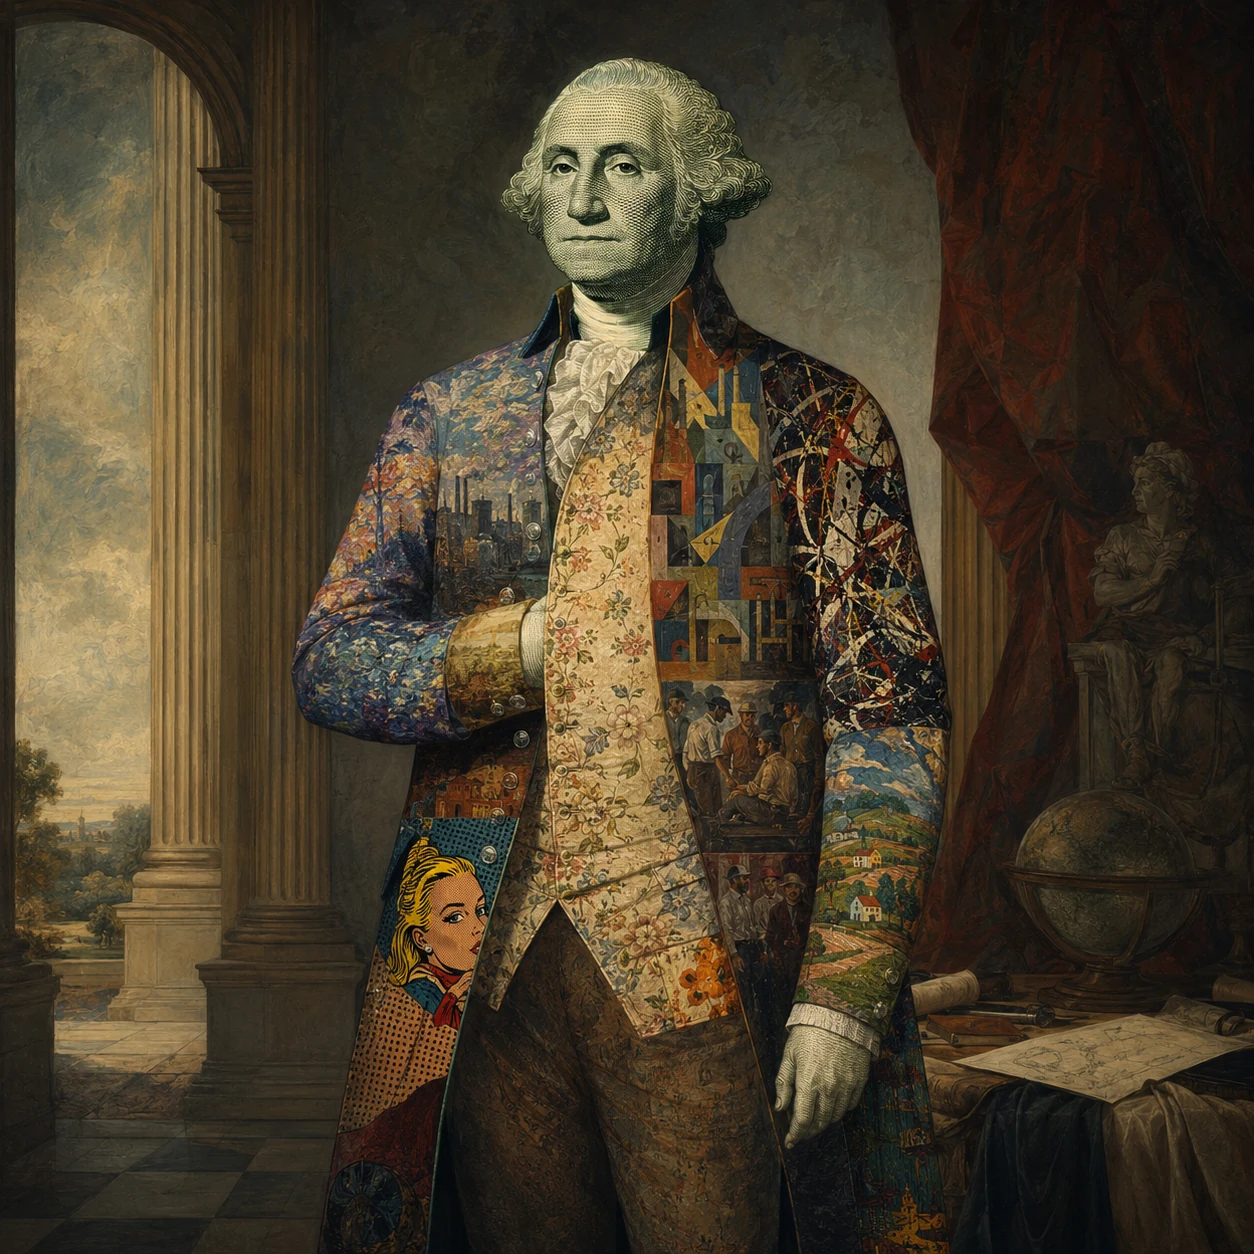
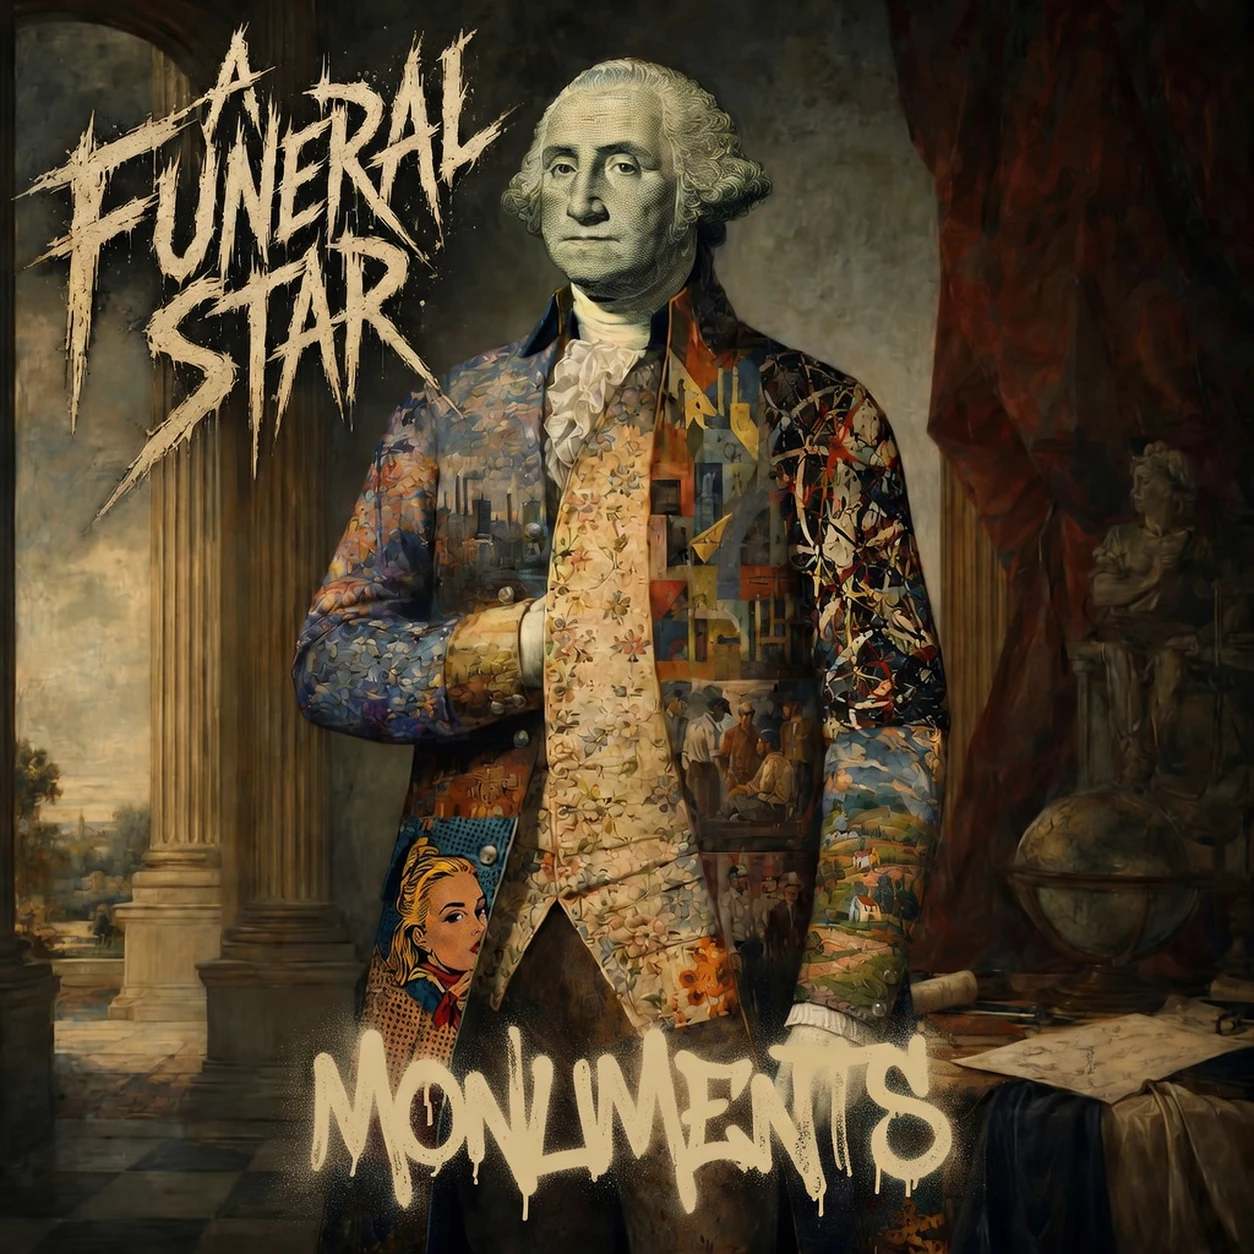
Spotlight Monuments: countdown hero, HyperFollow pre-save, Cinzel display face
- Home hero now features Monuments (final art) with the cover art
  click-through to the DistroKid HyperFollow pre-save page
- Ticking CLOCK DON'T STOP countdown to midnight June 19 2026 EDT,
  flips to OUT NOW after release
- Quasar blurb, rings/jets, and Spotify splash removed with the
  Now We Ignite spotlight; discography badge now carries the date
- Cinzel (carved-inscription face) for the hero title and countdown tag

diff --git a/index.html b/index.html
@@ -4,18 +4,18 @@
     <meta charset="utf-8">
     <meta name="viewport" content="width=device-width, initial-scale=1">
     <title>A Funeral Star | Death · Black · Folk Metal</title>
-    <meta name="description" content="A Funeral Star — experimental death, black, and folk metal from Washington, D.C. New album Now We Ignite, part of the Ignition Trilogy. Songs about people trapped by the gravity of their situations.">
+    <meta name="description" content="A Funeral Star — experimental death, black, and folk metal from Washington, D.C. New album Monuments drops June 19, 2026 — pre-save it now. Songs about people trapped by the gravity of their situations.">
     <link rel="canonical" href="https://afuneralstar.com/">
     <meta property="og:title" content="A Funeral Star | Death · Black · Folk Metal">
-    <meta property="og:description" content="A Funeral Star — experimental death, black, and folk metal from Washington, D.C. New album Now We Ignite, part of the Ignition Trilogy. Songs about people trapped by the gravity of their situations.">
-    <meta property="og:image" content="https://afuneralstar.com/assets/img/now-we-ignite-cover.webp">
+    <meta property="og:description" content="A Funeral Star — experimental death, black, and folk metal from Washington, D.C. New album Monuments drops June 19, 2026 — pre-save it now. Songs about people trapped by the gravity of their situations.">
+    <meta property="og:image" content="https://afuneralstar.com/assets/img/monuments-cover.webp">
     <meta property="og:type" content="website">
     <meta property="og:url" content="https://afuneralstar.com/">
     <meta name="twitter:card" content="summary_large_image">
     <meta name="twitter:site" content="@afuneralstar">
     <meta name="twitter:title" content="A Funeral Star | Death · Black · Folk Metal">
-    <meta name="twitter:description" content="A Funeral Star — experimental death, black, and folk metal from Washington, D.C. New album Now We Ignite, part of the Ignition Trilogy. Songs about people trapped by the gravity of their situations.">
-    <meta name="twitter:image" content="https://afuneralstar.com/assets/img/now-we-ignite-cover.webp">
+    <meta name="twitter:description" content="A Funeral Star — experimental death, black, and folk metal from Washington, D.C. New album Monuments drops June 19, 2026 — pre-save it now. Songs about people trapped by the gravity of their situations.">
+    <meta name="twitter:image" content="https://afuneralstar.com/assets/img/monuments-cover.webp">
     <meta name="theme-color" content="#07070a">
     <script type="application/ld+json">
 {
@@ -126,6 +126,13 @@
   "album": [
     {
       "@type": "MusicAlbum",
+      "name": "Monuments",
+      "url": "https://distrokid.com/hyperfollow/afuneralstar/monuments",
+      "image": "https://afuneralstar.com/assets/img/monuments-cover.webp",
+      "datePublished": "2026-06-19"
+    },
+    {
+      "@type": "MusicAlbum",
       "name": "Now We Ignite",
       "url": "https://afuneralstar.com/releases/now-we-ignite/"
     },
@@ -164,7 +171,7 @@
     </script>
     <link rel="preconnect" href="https://fonts.googleapis.com">
     <link rel="preconnect" href="https://fonts.gstatic.com" crossorigin>
-    <link rel="stylesheet" href="https://fonts.googleapis.com/css2?family=Cormorant+Garamond:ital,wght@0,500;0,600;0,700;1,500;1,600&family=Spectral:ital,wght@0,400;0,500;1,400;1,500&family=IBM+Plex+Mono:wght@400;500&display=swap">
+    <link rel="stylesheet" href="https://fonts.googleapis.com/css2?family=Cinzel:wght@500;600;700&family=Cormorant+Garamond:ital,wght@0,500;0,600;0,700;1,500;1,600&family=Spectral:ital,wght@0,400;0,500;1,400;1,500&family=IBM+Plex+Mono:wght@400;500&display=swap">
     <link rel="stylesheet" href="/assets/css/redesign.css">
     <script src="/assets/js/redesign.js" defer></script>
     <script async src="https://www.googletagmanager.com/gtag/js?id=G-888BCT159V"></script>
@@ -268,33 +275,33 @@
         <div class="hero">
           <div class="hero-inner">
             <p class="eyebrow">A Funeral Star · The Ignition Trilogy</p>
-            <h1 class="hero-title">Now We <em>Ignite</em></h1>
-            <p class="collapse-tag">Cosmic Ignition</p>
+            <h1 class="hero-title hero-title-stone">Monuments</h1>
+            <p class="collapse-tag">Societal Ignition</p>
 
-            <a class="splash" href="https://open.spotify.com/album/3a5JAyUN6Wd45aTpIoqvIH" target="_blank" rel="noopener" data-spotify-embed="album/3a5JAyUN6Wd45aTpIoqvIH" data-album="Now We Ignite" data-platform="Spotify" aria-label="Play Now We Ignite on Spotify">
+            <div class="countdown" data-countdown="2026-06-19T04:00:00Z" role="timer" aria-label="Countdown to the release of Monuments">
+              <p class="countdown-tag">Clock Don&#039;t Stop</p>
+              <div class="countdown-grid" data-countdown-grid>
+                <span class="cd-unit"><span class="cd-num" data-cd-days>--</span><span class="cd-label">Days</span></span>
+                <span class="cd-sep" aria-hidden="true">:</span>
+                <span class="cd-unit"><span class="cd-num" data-cd-hours>--</span><span class="cd-label">Hours</span></span>
+                <span class="cd-sep" aria-hidden="true">:</span>
+                <span class="cd-unit"><span class="cd-num" data-cd-mins>--</span><span class="cd-label">Min</span></span>
+                <span class="cd-sep" aria-hidden="true">:</span>
+                <span class="cd-unit"><span class="cd-num" data-cd-secs>--</span><span class="cd-label">Sec</span></span>
+              </div>
+              <p class="countdown-date">Midnight · June 19 2026 · Washington D.C.</p>
+            </div>
+
+            <a class="splash is-stone" href="https://distrokid.com/hyperfollow/afuneralstar/monuments" target="_blank" rel="noopener" data-album="Monuments" data-platform="HyperFollow" aria-label="Pre-save Monuments on DistroKid HyperFollow">
               <span class="cosmos" aria-hidden="true">
                 <span class="glow"></span>
-                <span class="rings"><svg viewBox="0 0 400 400" preserveAspectRatio="xMidYMid meet">
-                  <ellipse cx="200" cy="200" rx="196" ry="116" transform="rotate(-48 200 200)"/>
-                  <ellipse cx="200" cy="200" rx="150" ry="80" transform="rotate(-48 200 200)"/>
-                  <ellipse cx="200" cy="200" rx="120" ry="160" transform="rotate(14 200 200)"/>
-                </svg></span>
-                <span class="jet"></span>
-                <span class="jet core"></span>
-                <span class="ice-star"></span>
               </span>
-              <img src="/assets/img/now-we-ignite-cover.webp" alt="Now We Ignite album art — a quasar igniting from a black hole" width="1254" height="1254" fetchpriority="high">
-              <span class="splash-cue"><svg aria-hidden="true"><use href="#i-play"/></svg> Play on Spotify</span>
+              <img src="/assets/img/monuments-cover.webp" alt="Monuments album art — a statue in an ornate embroidered coat" width="1254" height="1254" fetchpriority="high">
+              <span class="splash-cue">Pre-Save the Album</span>
             </a>
 
-            <p class="blurb">A quasar fires from the black hole that <em>consumed the funeral star</em>. The collapse reverses — light, outward, at the speed of birth.</p>
-
             <div class="listen">
-              <span class="listen-label">Listen</span>
-              <a class="plink is-primary" href="https://open.spotify.com/album/3a5JAyUN6Wd45aTpIoqvIH" target="_blank" rel="noopener" data-platform="Spotify" data-album="Now We Ignite" aria-label="Spotify"><svg><use href="#logo-spotify"/></svg></a>
-              <a class="plink" href="https://music.apple.com/us/artist/a-funeral-star" target="_blank" rel="noopener" data-platform="Apple Music" data-album="Now We Ignite" aria-label="Apple Music"><svg><use href="#logo-apple"/></svg></a>
-              <a class="plink" href="https://www.youtube.com/@AFuneralStar" target="_blank" rel="noopener" data-platform="YouTube" data-album="Now We Ignite" aria-label="YouTube"><svg><use href="#logo-youtube"/></svg></a>
-              <a class="plink" href="https://afuneralstar.bandcamp.com" target="_blank" rel="noopener" data-platform="Bandcamp" data-album="Now We Ignite" aria-label="Bandcamp"><svg><use href="#logo-bandcamp"/></svg></a>
+              <a class="presave-button" href="https://distrokid.com/hyperfollow/afuneralstar/monuments" target="_blank" rel="noopener" data-album="Monuments" data-platform="HyperFollow">Pre-Save / Follow</a>
             </div>
           </div>
           <p class="scrollcue">The Discography ↓</p>
@@ -314,7 +321,7 @@
               <span class="icon-sub">Cosmic Ignition</span>
             </a>
             <div class="icon is-upcoming">
-              <span class="icon-art"><img loading="lazy" width="600" height="600" src="/assets/img/monuments-cover.webp" alt="Monuments — Coming 2026"><span class="icon-badge">Coming 2026</span></span>
+              <span class="icon-art"><img loading="lazy" width="600" height="600" src="/assets/img/monuments-cover.webp" alt="Monuments — June 19 · 2026"><span class="icon-badge">June 19 · 2026</span></span>
               <span class="icon-name">Monuments</span>
               <span class="icon-sub">Societal Ignition</span>
             </div>

diff --git a/assets/css/redesign.css b/assets/css/redesign.css
@@ -35,6 +35,7 @@
   --line-strong: rgba(236, 232, 225, 0.17);
 
   --display: "Cormorant Garamond", "EB Garamond", Georgia, "Times New Roman", serif;
+  --stone: "Cinzel", "Trajan Pro", "Cormorant Garamond", Georgia, serif;
   --body: "Spectral", "Source Serif Pro", Georgia, serif;
   --mono: "IBM Plex Mono", ui-monospace, "SFMono-Regular", Menlo, monospace;
 
@@ -214,6 +215,12 @@ button { font: inherit; color: inherit; background: none; border: 0; cursor: poi
   color: var(--star); text-shadow: 0 0 70px rgba(255, 140, 69, 0.2);
 }
 .hero-title em { font-style: italic; font-weight: 300; }
+/* Monuments: carved-inscription face — harder edge than the Garamond */
+.hero-title-stone {
+  font-family: var(--stone); font-weight: 700; text-transform: uppercase;
+  font-size: clamp(2rem, 8.4vw, 5.6rem); line-height: 1; letter-spacing: 0.085em;
+  text-shadow: 0 0 70px rgba(255, 140, 69, 0.16);
+}
 .collapse-tag {
   margin: 0; display: inline-flex; align-items: center; gap: 0.7rem;
   font-family: var(--mono); font-size: 0.66rem; letter-spacing: 0.32em;
@@ -221,12 +228,39 @@ button { font: inherit; color: inherit; background: none; border: 0; cursor: poi
 }
 .collapse-tag::before, .collapse-tag::after { content: ""; width: 1.7rem; height: 1px; background: var(--line-strong); }
 
+/* release countdown (CLOCK DON'T STOP) */
+.countdown { display: grid; justify-items: center; gap: 0.65rem; margin-top: 0.7rem; }
+.countdown-tag {
+  margin: 0; font-family: var(--stone); font-weight: 600; font-size: 0.92rem;
+  letter-spacing: 0.4em; text-transform: uppercase; color: var(--ignite-bright);
+  padding-left: 0.4em; /* optically recenter the tracked-out caps */
+}
+.countdown-grid {
+  display: flex; align-items: flex-start; gap: clamp(0.5rem, 1.6vw, 1rem);
+  font-variant-numeric: tabular-nums;
+}
+.cd-unit { display: grid; justify-items: center; gap: 0.35rem; min-width: 3ch; }
+.cd-num {
+  font-family: var(--mono); font-weight: 500;
+  font-size: clamp(1.65rem, 4.4vw, 2.5rem); line-height: 1; color: var(--star);
+  text-shadow: 0 0 26px rgba(238, 106, 30, 0.3);
+}
+.cd-label { font-family: var(--mono); font-size: 0.52rem; letter-spacing: 0.3em; text-transform: uppercase; color: var(--dim); }
+.cd-sep { font-family: var(--mono); font-size: clamp(1.3rem, 3.4vw, 2rem); line-height: 1.2; color: var(--ignite-burnt); }
+.cd-live {
+  font-family: var(--stone); font-weight: 700; text-transform: uppercase;
+  font-size: clamp(1.5rem, 3.6vw, 2.2rem); letter-spacing: 0.2em; color: var(--ignite-bright);
+}
+.countdown-date { margin: 0; font-family: var(--mono); font-size: 0.56rem; letter-spacing: 0.3em; text-transform: uppercase; color: var(--muted); }
+
 /* splash (clickable album art) + cosmos */
 .splash {
   position: relative; display: block; margin: 1.8rem 0 0.7rem;
   width: clamp(260px, 34vw, 460px); aspect-ratio: 1;
   animation: float 9s ease-in-out infinite;
 }
+/* monuments don't float — the stone hangs heavy and still */
+.splash.is-stone { animation: none; }
 .cosmos { position: absolute; left: 50%; top: 50%; transform: translate(-50%, -50%); width: 100%; height: 100%; z-index: 0; pointer-events: none; }
 .glow {
   position: absolute; left: 50%; top: 50%; transform: translate(-50%, -50%);
@@ -277,6 +311,13 @@ button { font: inherit; color: inherit; background: none; border: 0; cursor: poi
   font-size: clamp(1.08rem, 1.8vw, 1.32rem); line-height: 1.62; color: var(--paper-soft);
 }
 .blurb em { color: var(--paper); font-style: italic; }
+
+.presave-button {
+  padding: 0.95rem 2.4rem; border: 1px solid var(--ignite); color: var(--star);
+  font-family: var(--mono); font-size: 0.66rem; letter-spacing: 0.3em; text-transform: uppercase;
+  transition: background 220ms var(--ease), box-shadow 260ms var(--ease);
+}
+.presave-button:hover { background: var(--ignite-ember); box-shadow: 0 0 30px var(--ignite-glow); }
 
 .listen { display: flex; align-items: center; gap: 1.1rem; flex-wrap: wrap; justify-content: center; margin-top: 1.6rem; }
 .listen-label { font-family: var(--mono); font-size: 0.6rem; letter-spacing: 0.32em; text-transform: uppercase; color: var(--dim); }
@@ -540,6 +581,11 @@ button { font: inherit; color: inherit; background: none; border: 0; cursor: poi
 @media (max-width: 540px) {
   .track { grid-template-columns: 2rem 1fr auto; gap: 0.6rem; }
   .track-title { font-size: 1.08rem; }
+  /* rein in the tracked-out caps so hero lines fit a phone */
+  .eyebrow { font-size: 0.56rem; letter-spacing: 0.26em; }
+  .hero-title-stone { letter-spacing: 0.055em; }
+  .countdown-tag { font-size: 0.8rem; letter-spacing: 0.3em; }
+  .countdown-date { font-size: 0.5rem; letter-spacing: 0.2em; }
 }
 
 @media (prefers-reduced-motion: reduce) {

diff --git a/assets/js/redesign.js b/assets/js/redesign.js
@@ -174,6 +174,34 @@
     }
   });
 
+  // ---------- release countdown ----------
+  const countdown = document.querySelector("[data-countdown]");
+  if (countdown) {
+    const target = Date.parse(countdown.dataset.countdown);
+    const grid = countdown.querySelector("[data-countdown-grid]");
+    const days = countdown.querySelector("[data-cd-days]");
+    const hours = countdown.querySelector("[data-cd-hours]");
+    const mins = countdown.querySelector("[data-cd-mins]");
+    const secs = countdown.querySelector("[data-cd-secs]");
+    const pad = (n) => String(n).padStart(2, "0");
+    let timer;
+    const tick = () => {
+      const left = target - Date.now();
+      if (left <= 0) {
+        clearInterval(timer);
+        if (grid) grid.innerHTML = '<span class="cd-live">Out Now</span>';
+        return;
+      }
+      const s = Math.floor(left / 1000);
+      days.textContent = pad(Math.floor(s / 86400));
+      hours.textContent = pad(Math.floor((s % 86400) / 3600));
+      mins.textContent = pad(Math.floor((s % 3600) / 60));
+      secs.textContent = pad(s % 60);
+    };
+    tick();
+    timer = setInterval(tick, 1000);
+  }
+
   // ---------- newsletter ----------
   document.querySelector("[data-newsletter-form]")?.addEventListener("submit", () => {
     track("newsletter_submit");

diff --git a/about/index.html b/about/index.html
@@ -19,7 +19,7 @@
     <meta name="theme-color" content="#07070a">
     <link rel="preconnect" href="https://fonts.googleapis.com">
     <link rel="preconnect" href="https://fonts.gstatic.com" crossorigin>
-    <link rel="stylesheet" href="https://fonts.googleapis.com/css2?family=Cormorant+Garamond:ital,wght@0,500;0,600;0,700;1,500;1,600&family=Spectral:ital,wght@0,400;0,500;1,400;1,500&family=IBM+Plex+Mono:wght@400;500&display=swap">
+    <link rel="stylesheet" href="https://fonts.googleapis.com/css2?family=Cinzel:wght@500;600;700&family=Cormorant+Garamond:ital,wght@0,500;0,600;0,700;1,500;1,600&family=Spectral:ital,wght@0,400;0,500;1,400;1,500&family=IBM+Plex+Mono:wght@400;500&display=swap">
     <link rel="stylesheet" href="/assets/css/redesign.css">
     <script src="/assets/js/redesign.js" defer></script>
     <script async src="https://www.googletagmanager.com/gtag/js?id=G-888BCT159V"></script>

diff --git a/mailing-list/index.html b/mailing-list/index.html
@@ -19,7 +19,7 @@
     <meta name="theme-color" content="#07070a">
     <link rel="preconnect" href="https://fonts.googleapis.com">
     <link rel="preconnect" href="https://fonts.gstatic.com" crossorigin>
-    <link rel="stylesheet" href="https://fonts.googleapis.com/css2?family=Cormorant+Garamond:ital,wght@0,500;0,600;0,700;1,500;1,600&family=Spectral:ital,wght@0,400;0,500;1,400;1,500&family=IBM+Plex+Mono:wght@400;500&display=swap">
+    <link rel="stylesheet" href="https://fonts.googleapis.com/css2?family=Cinzel:wght@500;600;700&family=Cormorant+Garamond:ital,wght@0,500;0,600;0,700;1,500;1,600&family=Spectral:ital,wght@0,400;0,500;1,400;1,500&family=IBM+Plex+Mono:wght@400;500&display=swap">
     <link rel="stylesheet" href="/assets/css/redesign.css">
     <script src="/assets/js/redesign.js" defer></script>
     <script async src="https://www.googletagmanager.com/gtag/js?id=G-888BCT159V"></script>

diff --git a/merch/index.html b/merch/index.html
@@ -19,7 +19,7 @@
     <meta name="theme-color" content="#07070a">
     <link rel="preconnect" href="https://fonts.googleapis.com">
     <link rel="preconnect" href="https://fonts.gstatic.com" crossorigin>
-    <link rel="stylesheet" href="https://fonts.googleapis.com/css2?family=Cormorant+Garamond:ital,wght@0,500;0,600;0,700;1,500;1,600&family=Spectral:ital,wght@0,400;0,500;1,400;1,500&family=IBM+Plex+Mono:wght@400;500&display=swap">
+    <link rel="stylesheet" href="https://fonts.googleapis.com/css2?family=Cinzel:wght@500;600;700&family=Cormorant+Garamond:ital,wght@0,500;0,600;0,700;1,500;1,600&family=Spectral:ital,wght@0,400;0,500;1,400;1,500&family=IBM+Plex+Mono:wght@400;500&display=swap">
     <link rel="stylesheet" href="/assets/css/redesign.css">
     <script src="/assets/js/redesign.js" defer></script>
     <script async src="https://www.googletagmanager.com/gtag/js?id=G-888BCT159V"></script>

diff --git a/releases/consumed/index.html b/releases/consumed/index.html
@@ -114,7 +114,7 @@
     </script>
     <link rel="preconnect" href="https://fonts.googleapis.com">
     <link rel="preconnect" href="https://fonts.gstatic.com" crossorigin>
-    <link rel="stylesheet" href="https://fonts.googleapis.com/css2?family=Cormorant+Garamond:ital,wght@0,500;0,600;0,700;1,500;1,600&family=Spectral:ital,wght@0,400;0,500;1,400;1,500&family=IBM+Plex+Mono:wght@400;500&display=swap">
+    <link rel="stylesheet" href="https://fonts.googleapis.com/css2?family=Cinzel:wght@500;600;700&family=Cormorant+Garamond:ital,wght@0,500;0,600;0,700;1,500;1,600&family=Spectral:ital,wght@0,400;0,500;1,400;1,500&family=IBM+Plex+Mono:wght@400;500&display=swap">
     <link rel="stylesheet" href="/assets/css/redesign.css">
     <script src="/assets/js/redesign.js" defer></script>
     <script async src="https://www.googletagmanager.com/gtag/js?id=G-888BCT159V"></script>

diff --git a/releases/entropy-cuts/index.html b/releases/entropy-cuts/index.html
@@ -102,7 +102,7 @@
     </script>
     <link rel="preconnect" href="https://fonts.googleapis.com">
     <link rel="preconnect" href="https://fonts.gstatic.com" crossorigin>
-    <link rel="stylesheet" href="https://fonts.googleapis.com/css2?family=Cormorant+Garamond:ital,wght@0,500;0,600;0,700;1,500;1,600&family=Spectral:ital,wght@0,400;0,500;1,400;1,500&family=IBM+Plex+Mono:wght@400;500&display=swap">
+    <link rel="stylesheet" href="https://fonts.googleapis.com/css2?family=Cinzel:wght@500;600;700&family=Cormorant+Garamond:ital,wght@0,500;0,600;0,700;1,500;1,600&family=Spectral:ital,wght@0,400;0,500;1,400;1,500&family=IBM+Plex+Mono:wght@400;500&display=swap">
     <link rel="stylesheet" href="/assets/css/redesign.css">
     <script src="/assets/js/redesign.js" defer></script>
     <script async src="https://www.googletagmanager.com/gtag/js?id=G-888BCT159V"></script>

diff --git a/releases/homeless/index.html b/releases/homeless/index.html
@@ -114,7 +114,7 @@
     </script>
     <link rel="preconnect" href="https://fonts.googleapis.com">
     <link rel="preconnect" href="https://fonts.gstatic.com" crossorigin>
-    <link rel="stylesheet" href="https://fonts.googleapis.com/css2?family=Cormorant+Garamond:ital,wght@0,500;0,600;0,700;1,500;1,600&family=Spectral:ital,wght@0,400;0,500;1,400;1,500&family=IBM+Plex+Mono:wght@400;500&display=swap">
+    <link rel="stylesheet" href="https://fonts.googleapis.com/css2?family=Cinzel:wght@500;600;700&family=Cormorant+Garamond:ital,wght@0,500;0,600;0,700;1,500;1,600&family=Spectral:ital,wght@0,400;0,500;1,400;1,500&family=IBM+Plex+Mono:wght@400;500&display=swap">
     <link rel="stylesheet" href="/assets/css/redesign.css">
     <script src="/assets/js/redesign.js" defer></script>
     <script async src="https://www.googletagmanager.com/gtag/js?id=G-888BCT159V"></script>

diff --git a/releases/now-we-ignite/index.html b/releases/now-we-ignite/index.html
@@ -108,7 +108,7 @@
     </script>
     <link rel="preconnect" href="https://fonts.googleapis.com">
     <link rel="preconnect" href="https://fonts.gstatic.com" crossorigin>
-    <link rel="stylesheet" href="https://fonts.googleapis.com/css2?family=Cormorant+Garamond:ital,wght@0,500;0,600;0,700;1,500;1,600&family=Spectral:ital,wght@0,400;0,500;1,400;1,500&family=IBM+Plex+Mono:wght@400;500&display=swap">
+    <link rel="stylesheet" href="https://fonts.googleapis.com/css2?family=Cinzel:wght@500;600;700&family=Cormorant+Garamond:ital,wght@0,500;0,600;0,700;1,500;1,600&family=Spectral:ital,wght@0,400;0,500;1,400;1,500&family=IBM+Plex+Mono:wght@400;500&display=swap">
     <link rel="stylesheet" href="/assets/css/redesign.css">
     <script src="/assets/js/redesign.js" defer></script>
     <script async src="https://www.googletagmanager.com/gtag/js?id=G-888BCT159V"></script>

diff --git a/releases/silver-and-sorrow/index.html b/releases/silver-and-sorrow/index.html
@@ -132,7 +132,7 @@
     </script>
     <link rel="preconnect" href="https://fonts.googleapis.com">
     <link rel="preconnect" href="https://fonts.gstatic.com" crossorigin>
-    <link rel="stylesheet" href="https://fonts.googleapis.com/css2?family=Cormorant+Garamond:ital,wght@0,500;0,600;0,700;1,500;1,600&family=Spectral:ital,wght@0,400;0,500;1,400;1,500&family=IBM+Plex+Mono:wght@400;500&display=swap">
+    <link rel="stylesheet" href="https://fonts.googleapis.com/css2?family=Cinzel:wght@500;600;700&family=Cormorant+Garamond:ital,wght@0,500;0,600;0,700;1,500;1,600&family=Spectral:ital,wght@0,400;0,500;1,400;1,500&family=IBM+Plex+Mono:wght@400;500&display=swap">
     <link rel="stylesheet" href="/assets/css/redesign.css">
     <script src="/assets/js/redesign.js" defer></script>
     <script async src="https://www.googletagmanager.com/gtag/js?id=G-888BCT159V"></script>

diff --git a/releases/hell-joseon/index.html b/releases/hell-joseon/index.html
@@ -40,7 +40,7 @@
     </script>
     <link rel="preconnect" href="https://fonts.googleapis.com">
     <link rel="preconnect" href="https://fonts.gstatic.com" crossorigin>
-    <link rel="stylesheet" href="https://fonts.googleapis.com/css2?family=Cormorant+Garamond:ital,wght@0,500;0,600;0,700;1,500;1,600&family=Spectral:ital,wght@0,400;0,500;1,400;1,500&family=IBM+Plex+Mono:wght@400;500&display=swap">
+    <link rel="stylesheet" href="https://fonts.googleapis.com/css2?family=Cinzel:wght@500;600;700&family=Cormorant+Garamond:ital,wght@0,500;0,600;0,700;1,500;1,600&family=Spectral:ital,wght@0,400;0,500;1,400;1,500&family=IBM+Plex+Mono:wght@400;500&display=swap">
     <link rel="stylesheet" href="/assets/css/redesign.css">
     <script src="/assets/js/redesign.js" defer></script>
     <script async src="https://www.googletagmanager.com/gtag/js?id=G-888BCT159V"></script>
